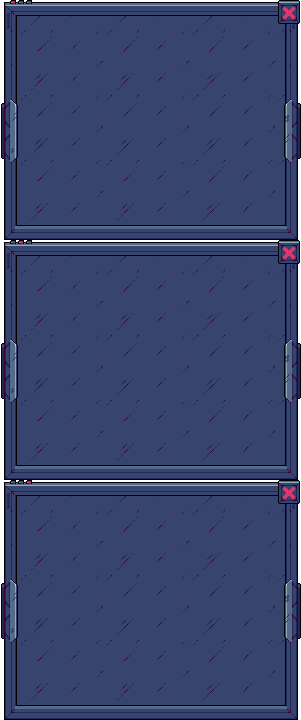
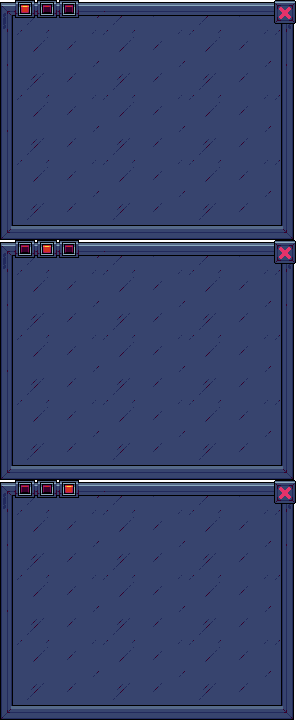
Updated The Notepad Frame

diff --git a/HackYourSummerProjectTwo/Game1.cs b/HackYourSummerProjectTwo/Game1.cs
@@ -25,6 +25,8 @@ namespace HackYourSummerProjectTwo
             levelSelectMenuTexture, animatedBackgroundTexture, animatedForegroundTexture, cursorTexture, gameModeWindowTexture, buttonTexture,
              assessmentBarTexture, notepadFrameTexture, textBackgroundTexture;
         private SpriteFont font;
+        private KeyboardState currKeyboardState;
+        private KeyboardState prevKeyboardState;
         #endregion
 
         #region Homebrew Type Variables
@@ -104,7 +106,7 @@ namespace HackYourSummerProjectTwo
             levelResetButton = new Button(buttonTexture, 225, 275, 154, 54, new Rectangle(0, 162, 154, 54));
 
             programModeWindow = new GameModeWindow(gameModeWindowTexture, buttonTexture, new Vector2(253, 67));
-            notepad = new Notepad(notepadFrameTexture, 200, 120, 301, 240, new Rectangle(0, 0, 301, 240), font);
+            notepad = new Notepad(notepadFrameTexture, 200, 120, 296, 240, font);
             animatedBackground = new AnimatedBackground(animatedBackgroundTexture, animatedForegroundTexture);
             cursor = new Cursor(cursorTexture);
 
@@ -138,6 +140,8 @@ namespace HackYourSummerProjectTwo
         {
             if (GamePad.GetState(PlayerIndex.One).Buttons.Back == ButtonState.Pressed || Keyboard.GetState().IsKeyDown(Keys.Escape))
                 Exit();
+
+            currKeyboardState = Keyboard.GetState();
 
             cursor.Update();
 
@@ -216,6 +220,7 @@ namespace HackYourSummerProjectTwo
                     break;
             }
 
+            prevKeyboardState = currKeyboardState;
             base.Update(gameTime);
         }
 
@@ -275,7 +280,6 @@ namespace HackYourSummerProjectTwo
                     stopwatch = timerFormatter.ToString("mm:ss");
                     _spriteBatch.DrawString(font, stopwatch, new Vector2(730, 448), Color.White);
 
-                    level = (levels.IndexOf(currentLevel) + 1);
                     _spriteBatch.DrawString(font, level.ToString(), new Vector2(668 + Math.Abs(18 - font.MeasureString(level.ToString()).X / 2), 448), Color.White);
 
                     foreach (Cursor tracker in assessmentBar)
@@ -382,12 +386,13 @@ namespace HackYourSummerProjectTwo
 
         protected void NavigateToPrimaryGameScreen()
         {
+            level = (levels.IndexOf(currentLevel) + 1);
             assessmentBar.Clear();
             timer = 0;
             levelFinished = false;
             assessmentMeter = 0;
             PopulateClientList();
-            levelTimeAllotment = 10 + (level * 5);
+            levelTimeAllotment = 10 + (level * 4);
             currentGameState = GameState.PrimaryGameScreen;
             foreach (LevelSelector selector in levels)
             {

diff --git a/HackYourSummerProjectTwo/Notepad.cs b/HackYourSummerProjectTwo/Notepad.cs
@@ -26,17 +26,17 @@ namespace HackYourSummerProjectTwo
 
         public bool IsShowing { get { return isShowing; } set { isShowing = value; } }
 
-        public Notepad(Texture2D sprite, int x, int y, int width, int height, Rectangle sourceRectangle, SpriteFont font)
+        public Notepad(Texture2D sprite, int x, int y, int width, int height, SpriteFont font)
         {
             this.font = font;
             this.sprite = sprite;
-            this.sourceRectangle = sourceRectangle;
+            this.sourceRectangle = new Rectangle(0, 0, 296, 240);
             tabs = new Rectangle[3];
             for (int i = 0; i < tabs.Length; i++)
             {
-                tabs[i] = new Rectangle((10 + (i * 8)) + destinationRectangle.X, destinationRectangle.Y, 6, 4);
+                tabs[i] = new Rectangle(18 + (22 * i) + x, y + 2, 14, 14);
             }
-            exitButton = new Rectangle(x + 282, y + 6, 14, 14);
+            exitButton = new Rectangle(x + 274, y, 22, 24);
 
             currentTab = tabs[0];
             destinationRectangle = new Rectangle(x, y, width, height);
@@ -89,11 +89,11 @@ namespace HackYourSummerProjectTwo
                         destinationRectangle.Y = (int)(difference.Y + previousLocation.Y);
                         for (int i = 0; i < tabs.Length; i++)
                         {
-                            tabs[i].X = (int)destinationRectangle.X + (10 + (i * 8));
-                            tabs[i].Y = (int)destinationRectangle.Y;
+                            tabs[i].X = (int)destinationRectangle.X + 18 + (22 * i);
+                            tabs[i].Y = (int)destinationRectangle.Y + 2;
                         }
-                        exitButton.X = (int)destinationRectangle.X + 282;
-                        exitButton.Y = (int)destinationRectangle.Y + 6;
+                        exitButton.X = (int)destinationRectangle.X + 274;
+                        exitButton.Y = (int)destinationRectangle.Y;
 
                         instructionsVector.X = (int)destinationRectangle.X + 20;
                         instructionsVector.Y = (int)destinationRectangle.Y + 20;
